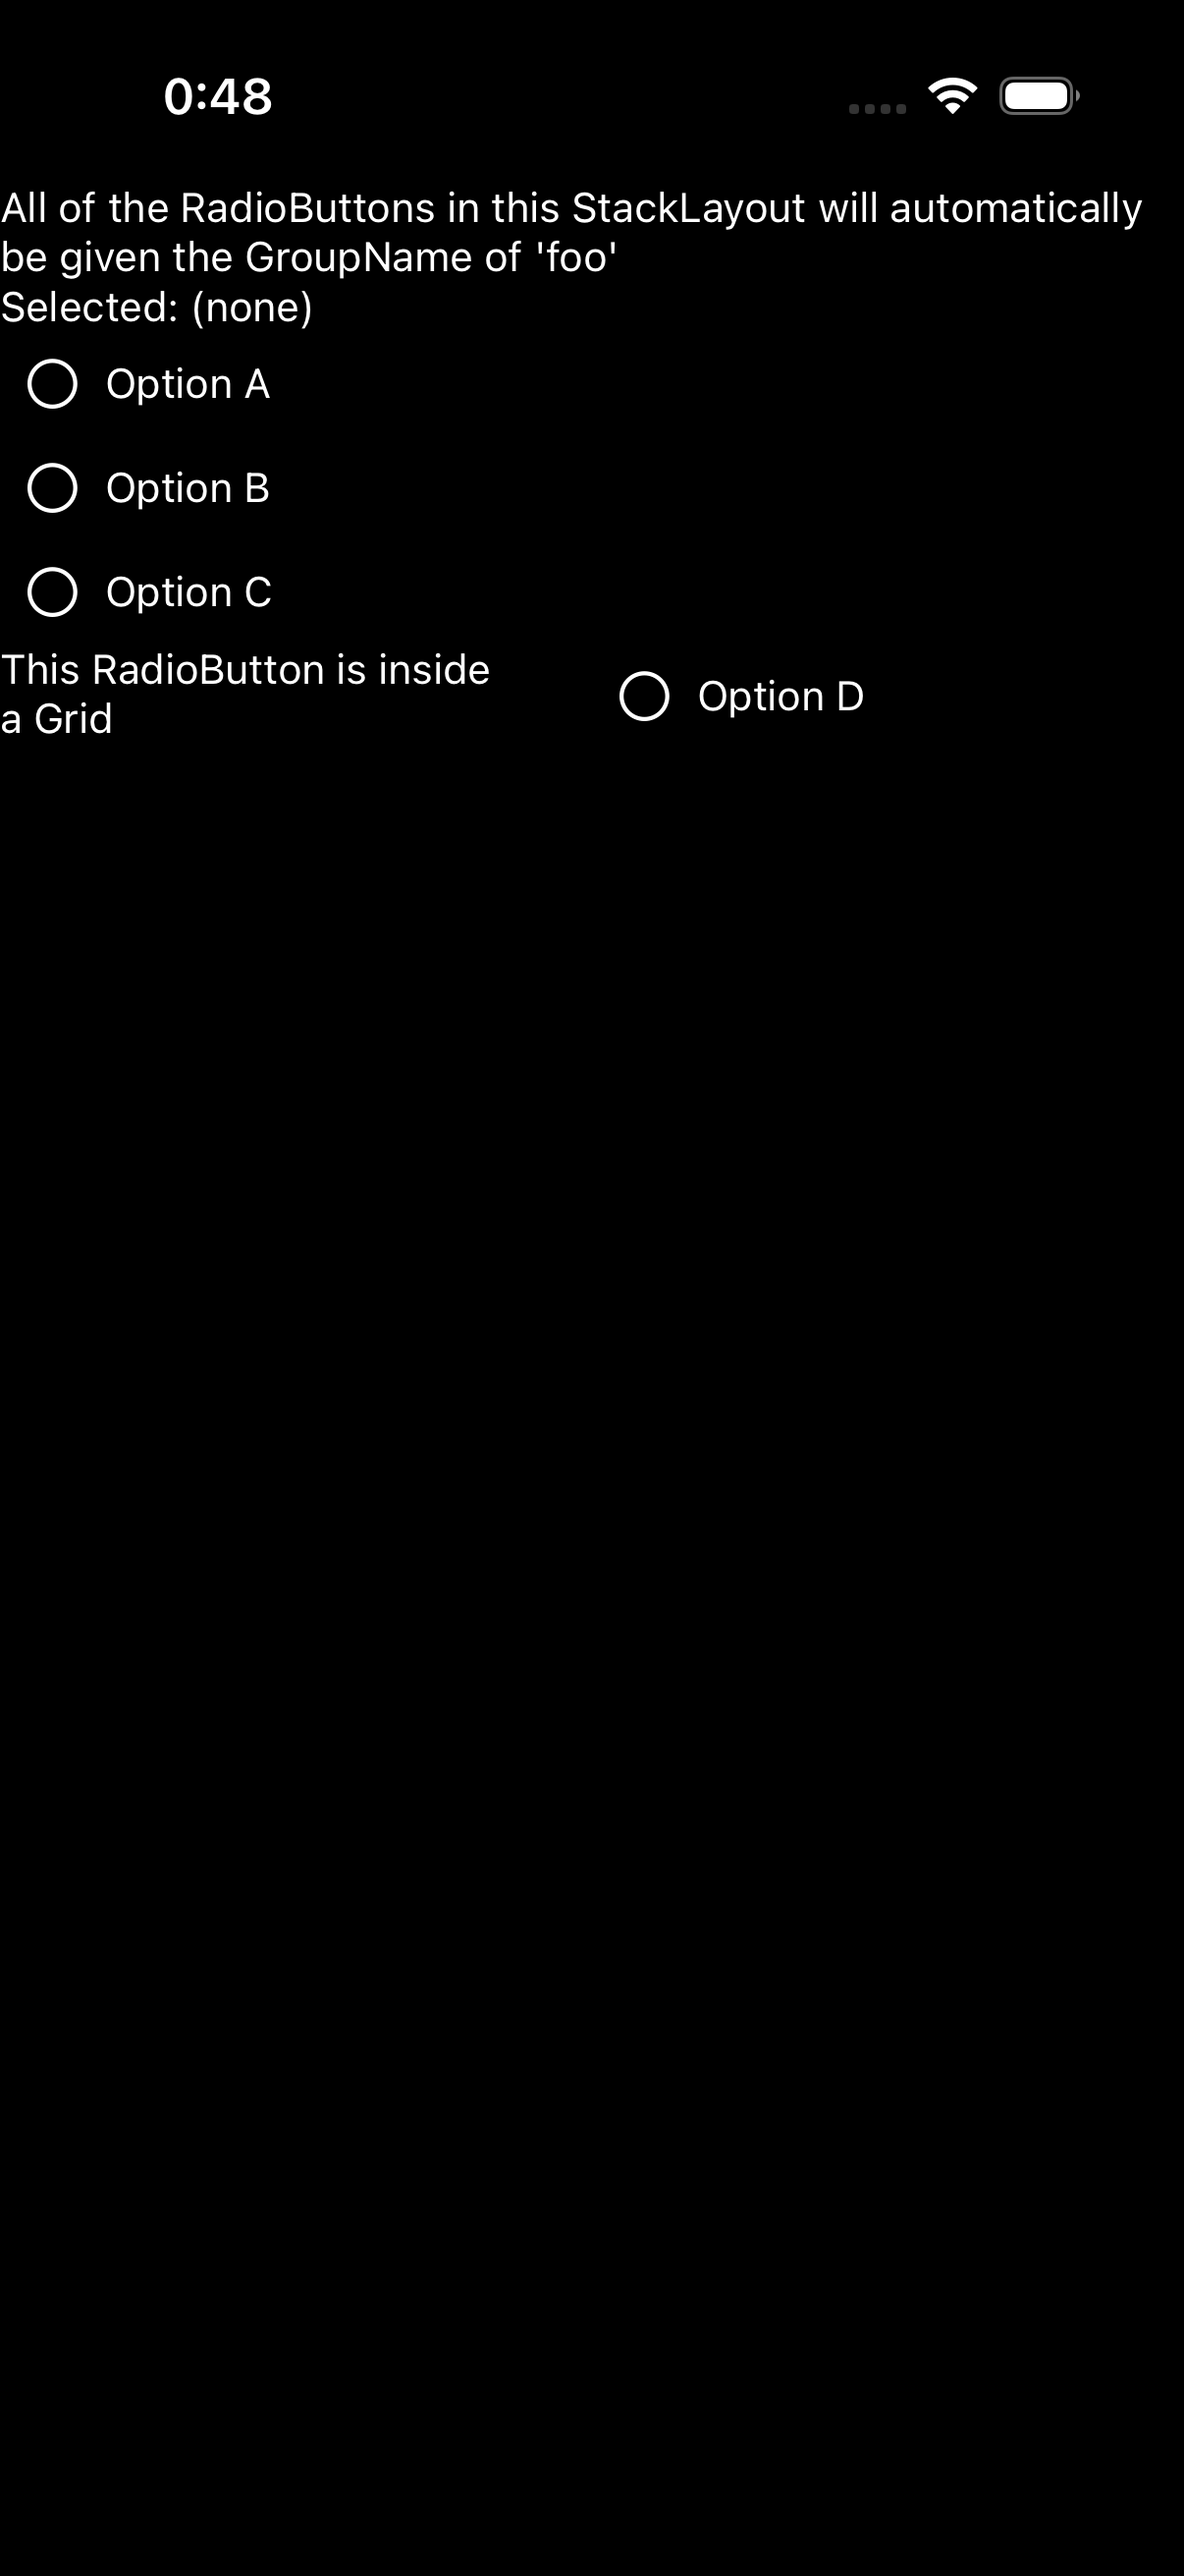
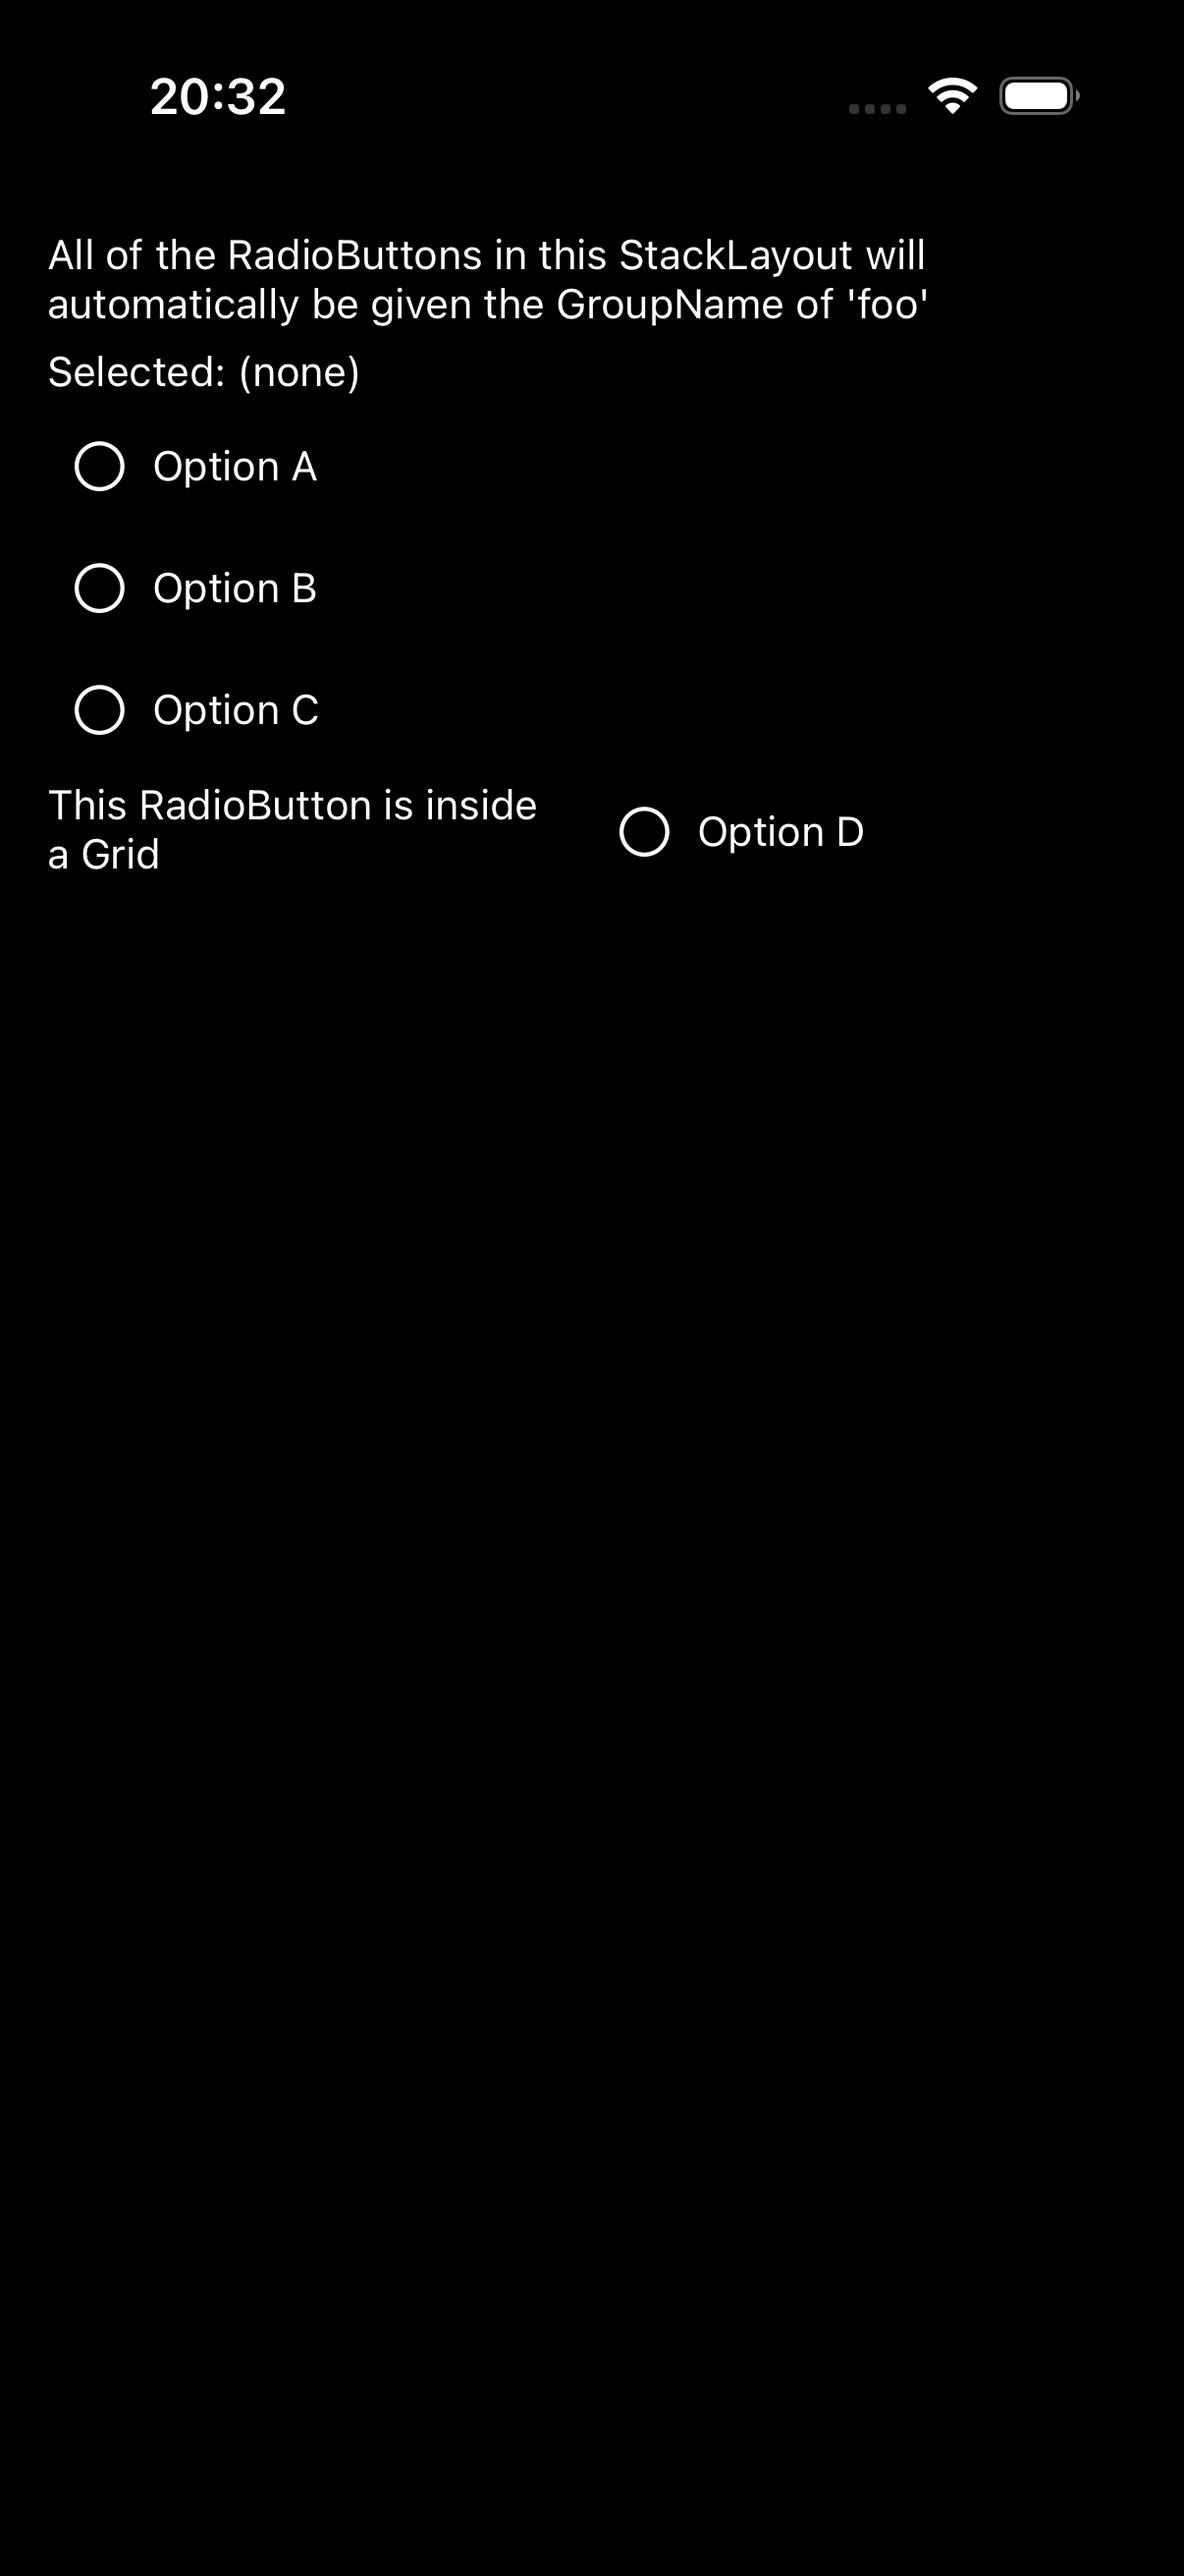
fix(radio_button_group): code-first page missing StackLayout Padding=16/Spacing=6 (cpp 2.34% -> 0.90%)
The shared radio_button_group.xaml root is <StackLayout Padding="16" Spacing="6"> but the code-first
twin set neither, so its rows rode tight-and-high and it diverged from the maui/xaml columns (which
render the shared XAML at 0.87%). Matched the padding+spacing -> cpp 2.34%->0.90%, now aligned with
xaml. Both columns remain yellow at the shared radio-ring floor (SSIM ~0.977, the SF-symbol-vs-template
ring residual common to every radio page), but the code-first asymmetry is gone. Same class of fix as
the indicator page.

diff --git a/port/cpp/examples/gallery/pages/radio_button_group_page.hpp b/port/cpp/examples/gallery/pages/radio_button_group_page.hpp
@@ -39,6 +39,7 @@
 #include "maui/controls/radio_button_group.hpp"
 #include "maui/controls/stack_layout.hpp"
 #include "maui/core/grid_length.hpp"
+#include "maui/core/thickness.hpp"
 
 namespace maui::samples
 {
@@ -48,6 +49,11 @@ namespace maui::samples
         radio_button_group_page()
         {
             page_.set_title("RadioButton Group (Attached Property)");
+
+            // The shared radio_button_group.xaml root is <StackLayout Padding="16" Spacing="6"> — match it
+            // so the code-first column's positions line up with the maui/xaml columns.
+            stack_.set_padding(maui::core::thickness(16));
+            stack_.set_spacing(6);
 
             header_.set_text("All of the RadioButtons in this StackLayout will automatically be given the "
                              "GroupName of 'foo'");

diff --git a/port/cpp/docs/comparison/README.md b/port/cpp/docs/comparison/README.md
@@ -3359,7 +3359,7 @@ _Not yet reviewed._
 
 #### 🟡 Pixel-Perfect Score — C++ (C1/C3)
 
-Light: SSIM 0.9301, 2.34% pixels differ · Dark: SSIM 0.9292, 2.34% pixels differ
+Light: SSIM 0.9773, 0.90% pixels differ · Dark: SSIM 0.9771, 0.90% pixels differ
 
 #### 🟡 Pixel-Perfect Score — C++ &amp; XAML (C2/C4)
 
